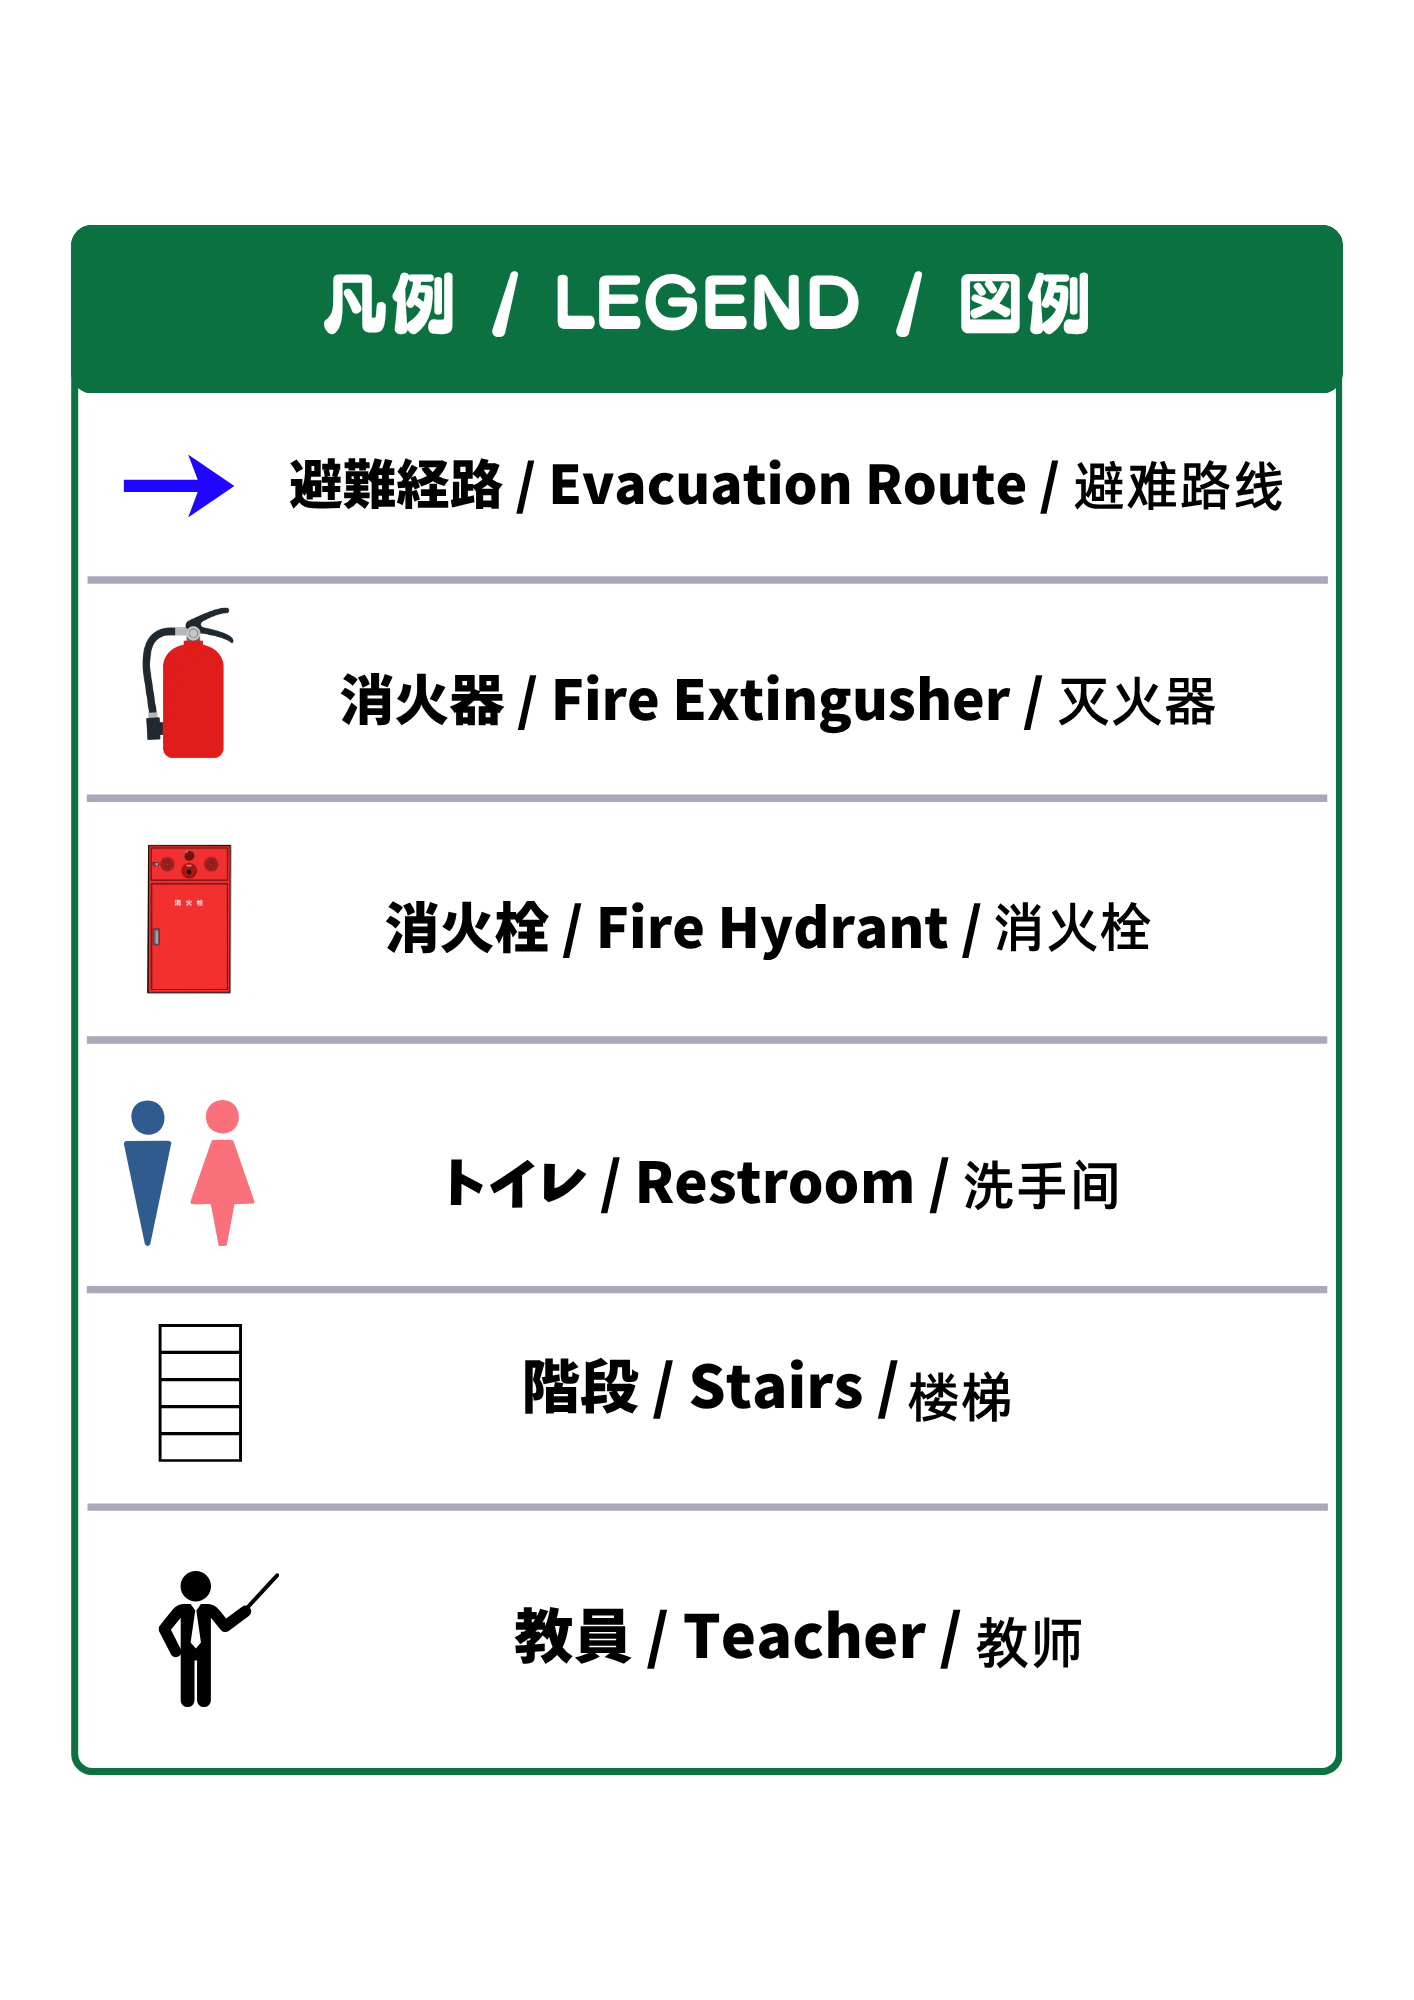
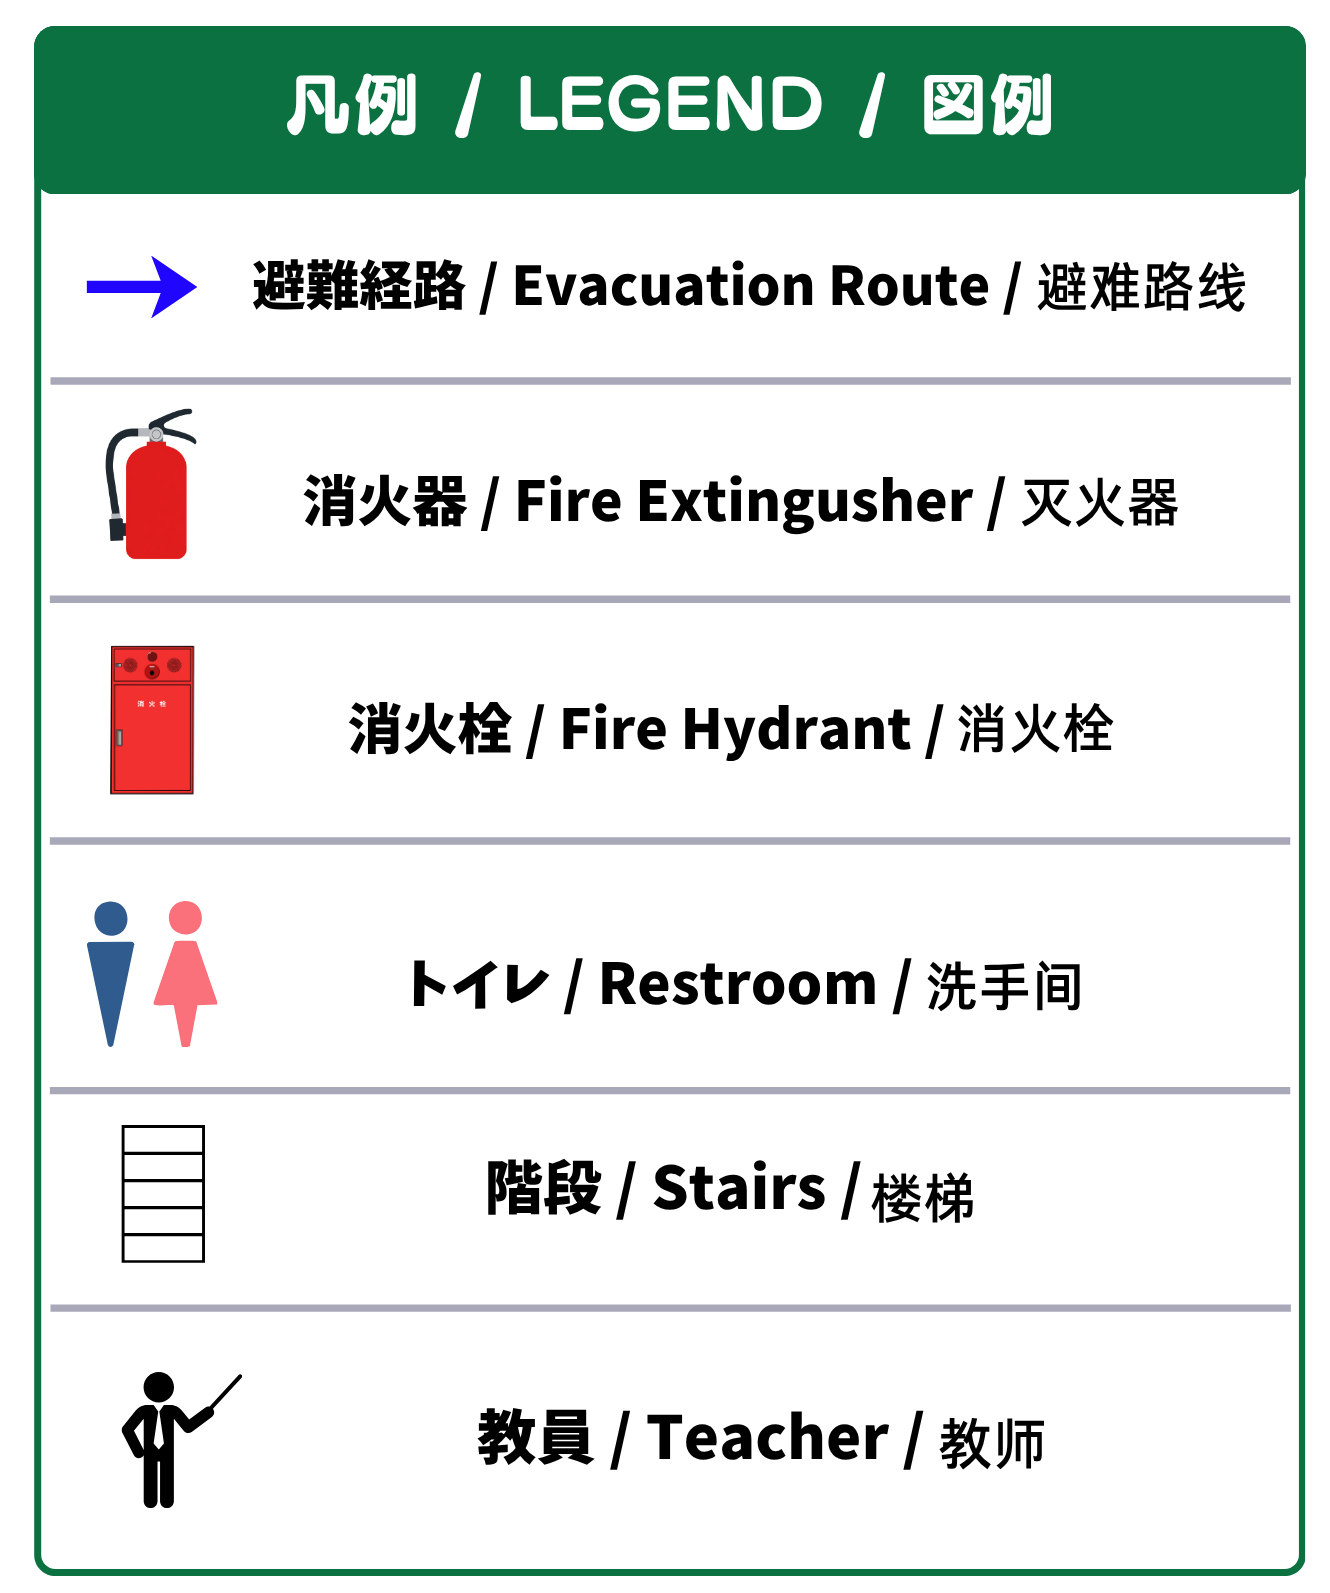
Add files via upload

Changed region(s): [[0.0, 0.0, 0.9865, 1.0]]

diff --git a/index.html b/index.html
@@ -4,9 +4,7 @@
     <meta charset="UTF-8">
     <meta name="viewport" content="width=device-width, initial-scale=1.0">
     <title>防災マップ</title>
-    
-    <!-- ▼ ここにコピーしたコードをそのまま貼り付けます ▼ -->
-    <script async src="https://www.googletagmanager.com/gtag/js?id=G-K7KS677P9P"></script>
+  <script async src="https://www.googletagmanager.com/gtag/js?id=G-K7KS677P9P"></script>
     <script>
       window.dataLayer = window.dataLayer || [];
       function gtag(){dataLayer.push(arguments);}
@@ -42,12 +40,38 @@
         #map-container { width: 100%; height: 100%; padding-top: 100px; box-sizing: border-box; overflow: hidden; position: relative; }
         #map-content { width: 100%; height: 100%; display: flex; justify-content: center; align-items: center; position: relative; transform-origin: center center; }
 
+        #map-wrapper {
+            position: relative;
+            display: inline-flex;
+            justify-content: center;
+            align-items: center;
+            max-width: 45%;
+            max-height: 85%;
+        }
+
         #map-image { 
-            max-width: 45%; max-height: 85%; 
-            box-shadow: 0 4px 15px rgba(0,0,0,0.1); border-radius: 8px; 
-            cursor: grab; -webkit-touch-callout: none; -webkit-user-select: none; user-select: none;
+            width: 100%;
+            height: 100%;
+            max-height: 85vh;
+            object-fit: contain;
+            box-shadow: 0 4px 15px rgba(0,0,0,0.1); 
+            border-radius: 8px; 
+            cursor: grab; 
+            -webkit-touch-callout: none; -webkit-user-select: none; user-select: none;
         }
         #map-image:active { cursor: grabbing; }
+
+        /* ▼ AED矢印：上下中心を揃えるために translateY(-50%) を適用 ▼ */
+        #aed-overlay-arrow {
+            position: absolute;
+            z-index: 8;
+            pointer-events: none;
+            display: none;
+            opacity: 0;
+            transform: translateY(-50%);
+            transition: opacity 0.5s ease;
+            filter: drop-shadow(0 2px 8px rgba(0,0,0,0.2));
+        }
         
         .ui-panel { position: absolute; z-index: 5; pointer-events: none; border-radius: 12px; box-shadow: 0 4px 10px rgba(0,0,0,0.15); }
         .legend-panel { left: 8vw; top: 50%; transform: translateY(-50%); width: 22vw; max-width: 300px; min-width: 220px; }
@@ -57,10 +81,30 @@
         .floor-btn { background: white; border: 2px solid #333; color: #333; width: 65px; height: 65px; font-size: 22px; font-weight: bold; cursor: pointer; border-radius: 50%; box-shadow: 0 4px 6px rgba(0,0,0,0.2); transition: 0.2s; display: flex; justify-content: center; align-items: center; }
         .floor-btn.active { background: #2c3e50; border-color: #2c3e50; color: white; }
 
-        /* ▼ 右下 操作コントロール群 ▼ */
         #zoom-controls { position: absolute; bottom: 30px; right: 30px; display: flex; flex-direction: column; gap: 8px; z-index: 10; align-items: center; }
         
-        /* 避難経路ボタン（丸型デザイン） */
+        .aed-btn-wrapper {
+            background: white; border: 2px solid #e74c3c;
+            width: 50px; height: 50px; cursor: pointer; border-radius: 50%; 
+            box-shadow: 0 2px 5px rgba(0,0,0,0.2); display: flex; justify-content: center; align-items: center;
+            margin-bottom: 2px; padding: 6px; box-sizing: border-box; transition: 0.2s;
+        }
+        .aed-btn-wrapper:active { background: #fdeaea; }
+
+        /* ▼ AEDメニュー（PC用：AEDアイコンの真横に表示） ▼ */
+        #aed-menu {
+            position: absolute; bottom: 220px; right: 90px;
+            background: white; border-radius: 8px; box-shadow: 0 4px 15px rgba(0,0,0,0.3);
+            display: none; flex-direction: column; overflow: hidden; z-index: 20; border: 2px solid #e74c3c;
+        }
+        .aed-menu-btn {
+            background: white; border: none; border-bottom: 1px solid #eee;
+            padding: 12px 20px; font-size: 16px; color: #333; cursor: pointer;
+            text-align: left; transition: 0.2s; font-weight: bold; white-space: nowrap;
+        }
+        .aed-menu-btn:hover { background: #ffeaea; color: #e74c3c; }
+        .aed-menu-btn:last-child { border-bottom: none; }
+
         .route-toggle-btn {
             background: #27ae60; border: 2px solid #27ae60; color: white;
             width: 50px; height: 50px; font-size: 26px; font-weight: bold;
@@ -68,9 +112,7 @@
             transition: 0.2s; display: flex; justify-content: center; align-items: center;
             margin-bottom: 6px;
         }
-        .route-toggle-btn.off {
-            background: white; border: 2px solid #666; color: #666;
-        }
+        .route-toggle-btn.off { background: white; border: 2px solid #666; color: #666; }
 
         .zoom-btn { background: white; border: 1px solid #666; color: #333; width: 50px; height: 50px; font-size: 24px; font-weight: normal; cursor: pointer; border-radius: 8px; box-shadow: 0 2px 5px rgba(0,0,0,0.2); transition: 0.2s; display: flex; justify-content: center; align-items: center; }
         .zoom-btn:active { background: #e0e0e0; }
@@ -81,12 +123,15 @@
             .menu-btn { padding: 6px 12px; font-size: 13px; }
             .school-title, .header-banner { display: none; }
             #map-container { padding-top: 60px; }
-            #map-image { max-width: 90%; max-height: 80%; }
+            #map-wrapper { max-width: 90%; max-height: 80%; }
             .ui-panel { display: none; }
             #floor-menu { bottom: 20px; left: 20px; gap: 10px; }
             .floor-btn { width: 50px; height: 50px; font-size: 18px; }
 
             #zoom-controls { bottom: 20px; right: 20px; gap: 6px; }
+            .aed-btn-wrapper { width: 42px; height: 42px; padding: 4px; }
+            #aed-menu { bottom: 170px; right: 70px; }
+            .aed-menu-btn { font-size: 14px; padding: 10px 15px; }
             .route-toggle-btn { width: 42px; height: 42px; font-size: 22px; margin-bottom: 4px; }
             .zoom-btn { width: 42px; height: 42px; font-size: 20px; }
             .reset-btn { height: 42px; font-size: 10px; }
@@ -113,16 +158,28 @@
     <div id="map-container">
         <div id="map-content">
             <img src="images/凡例.png" class="ui-panel legend-panel" alt="凡例" onerror="this.style.display='none'">
-            <img id="map-image" src="images/全体図_矢印.png" alt="防災マップ" onerror="this.src='https://placehold.jp/800x600.png?text=画像準備中';">
+            
+            <div id="map-wrapper">
+                <img id="map-image" src="images/全体図_矢印.png" alt="防災マップ" onerror="this.src='https://placehold.jp/800x600.png?text=画像準備中';">
+                <img id="aed-overlay-arrow" src="images/矢印_AED.png" alt="AED位置">
+            </div>
+
             <img src="images/避難のしかた.png" class="ui-panel evacuate-panel" alt="避難のしかた" onerror="this.style.display='none'">
         </div>
     </div>
 
+    <div id="aed-menu">
+        <button class="aed-menu-btn" onclick="triggerAedArrow('2号館', '1F', '2gokan-1f')">2号館：女子トイレ入口前</button>
+        <button class="aed-menu-btn" onclick="triggerAedArrow('2号館', '2F', '2gokan-2f')">ピロティ側階段：2階</button>
+        <button class="aed-menu-btn" onclick="triggerAedArrow('体育館', '1F', 'gym-1f')">体育館1階：オレンジの間入口</button>
+    </div>
+
     <div id="floor-menu"></div>
 
-    <!-- 右下 操作パネル -->
     <div id="zoom-controls">
-        <!-- 避難経路の矢印ボタン（初期状態ON） -->
+        <div class="aed-btn-wrapper" onclick="toggleAedMenu()" title="AEDの場所">
+            <img src="images/AED.png" alt="AED" style="width: 100%; height: 100%; object-fit: contain; border-radius: 50%;">
+        </div>
         <button id="arrow-btn" class="route-toggle-btn" onclick="toggleArrow()" title="避難経路の表示切替">→</button>
         <button class="zoom-btn" onclick="zoomMap(0.2)">＋</button>
         <button class="zoom-btn" onclick="zoomMap(-0.2)">－</button>
@@ -139,9 +196,18 @@
             '体育館': ['1F', '2F']
         };
 
+        // ▼ 各AEDアイコンの垂直中心と右端に正確に合わせた座標 ▼
+        const aedPositions = {
+            '2gokan-1f': { top: '85.5%', left: '14.5%', width: '31%' }, // 2号館1階
+            '2gokan-2f': { top: '8.0%', left: '30.5%', width: '30%' }, // 2号館2階
+            'gym-1f':    { top: '49.5%', left: '67.0%', width: '30%' }  // 体育館1階
+        };
+
         let currentBuilding = '全体図';
         let currentFloor = '1F';
-        let showArrow = true; // 初期設定をONに変更
+        let showArrow = true;
+        let aedTimer = null;
+        let fadeTimer = null;
         
         let currentScale = 1;
         let translateX = 0;
@@ -149,23 +215,61 @@
 
         function selectBuilding(building) {
             currentBuilding = building;
-            // 4号館の場合は3階を初期選択、それ以外は一番下の階を選択
-            if (building === '4号館') {
-                currentFloor = '3F';
-            } else {
-                currentFloor = mapData[building][0]; 
-            }
+            currentFloor = (building === '4号館') ? '3F' : mapData[building][0]; 
+            hideAedArrowImmediately();
             updateUI();
         }
 
         function selectFloor(floor) {
             currentFloor = floor;
+            hideAedArrowImmediately();
             updateUI();
         }
 
         function toggleArrow() {
             showArrow = !showArrow;
             updateUI();
+        }
+
+        function toggleAedMenu() {
+            const menu = document.getElementById('aed-menu');
+            menu.style.display = (menu.style.display === 'flex') ? 'none' : 'flex';
+        }
+
+        function hideAedArrowImmediately() {
+            const arrow = document.getElementById('aed-overlay-arrow');
+            if (aedTimer) clearTimeout(aedTimer);
+            if (fadeTimer) clearTimeout(fadeTimer);
+            arrow.style.display = 'none';
+            arrow.style.opacity = '0';
+        }
+
+        function triggerAedArrow(building, floor, positionKey) {
+            document.getElementById('aed-menu').style.display = 'none';
+            hideAedArrowImmediately();
+
+            currentBuilding = building;
+            currentFloor = floor;
+            updateUI();
+            resetZoom();
+
+            const arrow = document.getElementById('aed-overlay-arrow');
+            const pos = aedPositions[positionKey];
+            if (pos) {
+                arrow.style.top = pos.top;
+                arrow.style.left = pos.left;
+                arrow.style.width = pos.width;
+                arrow.style.display = 'block';
+
+                setTimeout(() => { arrow.style.opacity = '1'; }, 20);
+
+                aedTimer = setTimeout(() => {
+                    arrow.style.opacity = '0';
+                    fadeTimer = setTimeout(() => {
+                        arrow.style.display = 'none';
+                    }, 500);
+                }, 3000);
+            }
         }
 
         function updateTransform() {
@@ -190,7 +294,6 @@
         const mapImage = document.getElementById('map-image');
         let isDragging = false;
         let startX = 0, startY = 0;
-
         let initialDistance = null;
         let initialScale = 1;
 
@@ -201,6 +304,10 @@
         }
 
         function startDrag(e) {
+            if (!e.target.closest('#aed-menu') && !e.target.closest('.aed-btn-wrapper')) {
+                document.getElementById('aed-menu').style.display = 'none';
+            }
+
             if (e.type.includes('touch')) {
                 if (e.touches.length === 2) {
                     isDragging = false;
@@ -244,14 +351,9 @@
         }
 
         function endDrag(e) {
-            if (e.type.includes('touch') && e.touches.length < 2) {
-                initialDistance = null;
-            }
-            if (e.type.includes('touch') && e.touches.length === 0) {
-                isDragging = false;
-            } else if (!e.type.includes('touch')) {
-                isDragging = false;
-            }
+            if (e.type.includes('touch') && e.touches.length < 2) initialDistance = null;
+            if (e.type.includes('touch') && e.touches.length === 0) isDragging = false;
+            else if (!e.type.includes('touch')) isDragging = false;
         }
 
         mapContainer.addEventListener('mousedown', startDrag);
@@ -273,7 +375,6 @@
                 if(btn.innerText.includes(currentBuilding)) btn.classList.add('active');
             });
 
-            // 避難経路ボタンのスタイル更新
             const arrowBtn = document.getElementById('arrow-btn');
             if(showArrow) {
                 arrowBtn.classList.remove('off');
@@ -305,8 +406,6 @@
             } else {
                 img.src = `images/${currentBuilding}_${currentFloor}${arrowSuffix}.png`;
             }
-            
-            resetZoom();
         }
 
         mapImage.addEventListener('contextmenu', function(e) { e.preventDefault(); });
